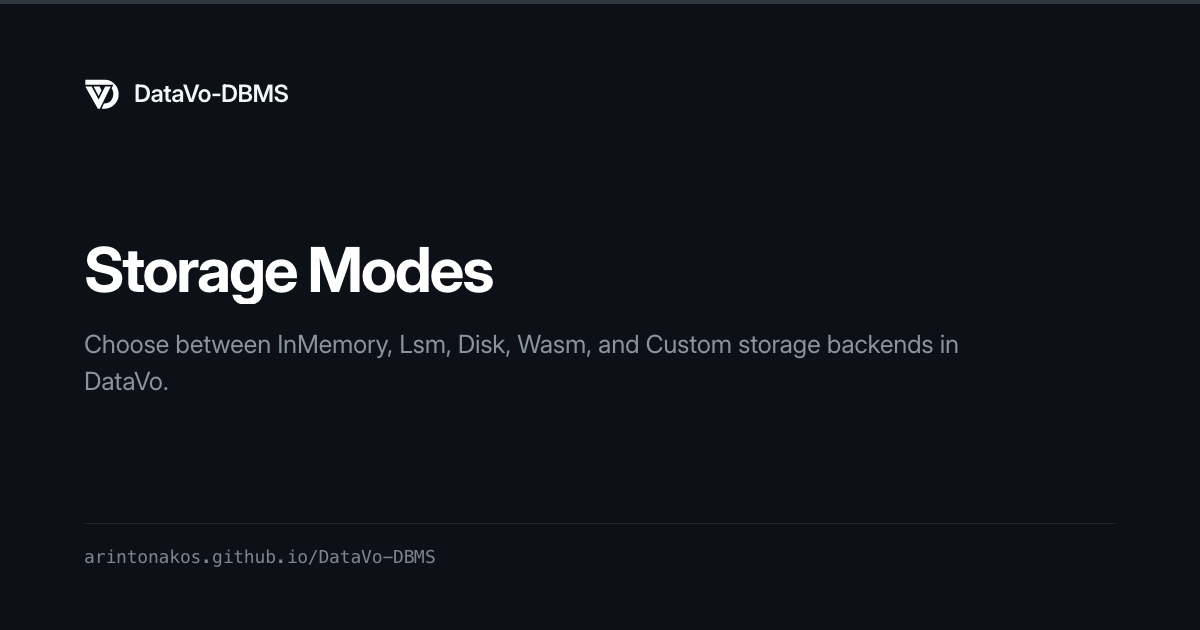
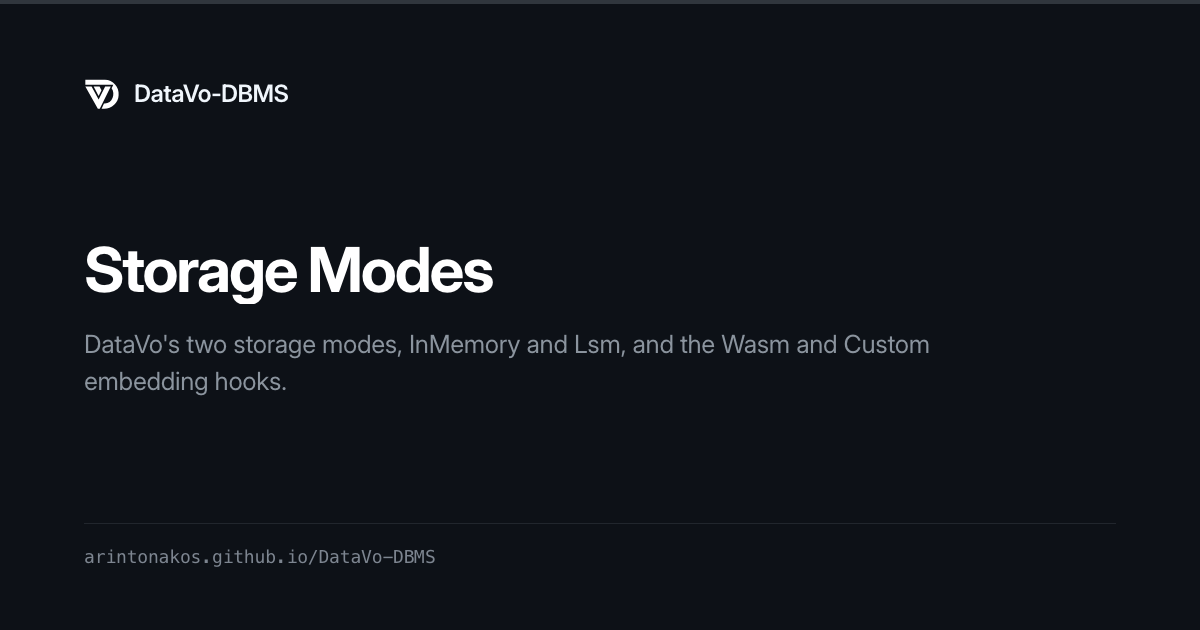
docs: describe 0.5.0 as the current release
Installs no longer need --prerelease, the requirements list the net8.0, net9.0,
net10.0 and netstandard2.1 assets, and the roadmap marks v0.5 as released.

Changed region(s): [[0.0617, 0.5127, 0.8017, 0.6333]]

diff --git a/docs/manual/getting-started/roadmap.md b/docs/manual/getting-started/roadmap.md
@@ -1,15 +1,15 @@
 ---
 title: Status & Roadmap
-description: Release candidate guarantees, subsystem stability, explicit boundaries, and the v0.2–v0.5 roadmap for DataVo 0.4.0-rc.1.
+description: Release guarantees, subsystem stability, explicit boundaries, and the v0.2–v0.5 milestone history for DataVo 0.5.0.
 ---
 
 # Status & Roadmap
 
-The current release on NuGet is **0.4.0-rc.1 (release candidate, 17 November 2026)**, shipping both the **v0.3** and **v0.4** milestones on `.NET 10`. This page defines the release-candidate contract, subsystem status, architectural boundaries, and what is planned for **v0.5**.
+The current release on NuGet is **0.5.0 (25 November 2026)**, targeting `.NET 8`, `.NET 9`, `.NET 10` and `netstandard2.1`. This page defines the release contract, subsystem status, architectural boundaries, and the milestone history.
 
-## Release Candidate Contract
+## Release Contract
 
-- **Supported shape:** One `.NET 10` process owns a database directory (enforced via `datavo.lock`) or an in-memory database, executing SQL or compiled LINQ through `DataVoContext`, ADO.NET, or the EF Core bridge.
+- **Supported shape:** One .NET process owns a database directory (enforced via `datavo.lock`) or an in-memory database, executing SQL or compiled LINQ through `DataVoContext`, ADO.NET, or the EF Core bridge.
 - **Durability:** Under `StorageMode.Lsm` with `LsmStrictFsync = true` (default), acknowledged commits are flushed to stable storage. With `LsmStrictFsync = false`, writes hand off to the OS page cache. See [LSM & Durability](/manual/fundamentals/lsm-and-durability).
 - **Isolation:** Explicit transactions provide MVCC snapshot isolation with read-your-own-writes and first-committer-wins conflict detection, but not serializable predicate locking (write skew is possible). See [Transactions & MVCC](/manual/fundamentals/transactions-and-mvcc).
 - **On-disk format:** v0.5 writes SSTable format version 8 (and reads the row-file versions 2, 4 and 6 it still writes for small integer keys). Pre-release formats are not upgraded: the v1 SSTable reader, the per-table WAL migration and the paged `Disk` engine were removed in v0.5. The format does not yet carry a long-term cross-version compatibility guarantee; keep an export or seed script for critical data.
@@ -19,14 +19,14 @@ The current release on NuGet is **0.4.0-rc.1 (release candidate, 17 November 202
 
 | Subsystem | Status | Notes |
 | --- | --- | --- |
-| `DataVoContext` & SQL dialect | Release candidate | DataVo's own dialect; see [SQL Compatibility](/manual/sql/compatibility) |
-| `InMemory` & `Lsm` storage | Release candidate | The two storage modes (the paged `Disk` engine was removed in v0.5) |
-| Transactions & MVCC | Release candidate | Snapshot isolation, savepoints, atomic `COMMIT` |
-| Vector search (`HNSW`, `FLAT`) | Release candidate | Cosine (`<=>`) and L2 (`<->`), cost-based exact fallback |
-| Columnar indexes & SSTable segments | Release candidate | In-memory buffers + persisted 4,096-row zone-mapped segments |
-| Live Reactive Views (Z-set IVM) | Release candidate | Pull-drain subscriptions via `Subscribe` / `SubscribeZeroAlloc` |
-| `DataVo.Generators` & Native AOT | Release candidate | Trim/AOT analyzers (`IL2026`, `IL3050`) enforced as errors |
-| `DataVo.Data` (ADO.NET & Dapper) | Release candidate | Standard `System.Data.Common` types; no `DbProviderFactory` |
+| `DataVoContext` & SQL dialect | Released (0.5.0) | DataVo's own dialect; see [SQL Compatibility](/manual/sql/compatibility) |
+| `InMemory` & `Lsm` storage | Released (0.5.0) | The two storage modes (the paged `Disk` engine was removed in v0.5) |
+| Transactions & MVCC | Released (0.5.0) | Snapshot isolation, savepoints, atomic `COMMIT` |
+| Vector search (`HNSW`, `FLAT`) | Released (0.5.0) | Cosine (`<=>`) and L2 (`<->`), cost-based exact fallback |
+| Columnar indexes & SSTable segments | Released (0.5.0) | In-memory buffers + persisted 4,096-row zone-mapped segments |
+| Live Reactive Views (Z-set IVM) | Released (0.5.0) | Pull-drain subscriptions via `Subscribe` / `SubscribeZeroAlloc` |
+| `DataVo.Generators` & Native AOT | Released (0.5.0) | Trim/AOT analyzers (`IL2026`, `IL3050`) enforced as errors |
+| `DataVo.Data` (ADO.NET & Dapper) | Released (0.5.0) | Standard `System.Data.Common` types; no `DbProviderFactory` |
 | `DataVo.EntityFrameworkCore` | Preview bridge | Query/DML bridge only; no migrations, excluded from AOT |
 | `DataVo.Browser` (WebAssembly) | Experimental | Powers the docs playground; not published on npm |
 | `DataVo-Sync` (PostgreSQL sync) | Commercial add-on | Separate proprietary product; see [DataVo-Sync](/manual/fundamentals/datavo-sync) |
@@ -57,7 +57,7 @@ The current release on NuGet is **0.4.0-rc.1 (release candidate, 17 November 202
 - **Typed execution:** `OR`/`LIKE` fast paths, integer-key hash joins, index-driven joins, dense bit-set anti-joins, unboxed `GROUP BY`, UTF-8 byte matching, and in-place top-k.
 - **Vector search:** HNSW diversity heuristic on by default (100% recall@10 on clustered data), cost-based exact scan fallback, SQL `WITH (...)` HNSW parameters, and pre-optimized SIMD kernels.
 
-### v0.5: AI Integration, Client Ergonomics & Native Interop *(release candidate `0.5.0-rc.1` in preparation)*
+### v0.5: AI Integration, Client Ergonomics & Native Interop *(released as `0.5.0`)*
 - **Track A (Native Interop):** Native AOT C ABI (`dv_open`, `dv_exec`, `dv_prepare`) for C/Python/Rust/Go, zero-copy Apache Arrow C Data Interface export from columnar buffers/SSTables, and a reference Python binding.
 - **Track B (Client Applications):**
   - *Done:* Build-time compiled `OrderBy`/`ThenBy`, `Skip`/`Take`, `Select` projections, and single-table `ExecuteUpdate`/`ExecuteDelete` in `DataVo.Generators`.

diff --git a/docs/public/ai/pages/manual/getting-started/roadmap.md b/docs/public/ai/pages/manual/getting-started/roadmap.md
@@ -3,11 +3,11 @@
 > Source route: /manual/getting-started/roadmap
 > Source file: manual/getting-started/roadmap.md
 
-The current release on NuGet is **0.4.0-rc.1 (release candidate, 17 November 2026)**, shipping both the **v0.3** and **v0.4** milestones on `.NET 10`. This page defines the release-candidate contract, subsystem status, architectural boundaries, and what is planned for **v0.5**.
+The current release on NuGet is **0.5.0 (25 November 2026)**, targeting `.NET 8`, `.NET 9`, `.NET 10` and `netstandard2.1`. This page defines the release contract, subsystem status, architectural boundaries, and the milestone history.
 
-## Release Candidate Contract
+## Release Contract
 
-- **Supported shape:** One `.NET 10` process owns a database directory (enforced via `datavo.lock`) or an in-memory database, executing SQL or compiled LINQ through `DataVoContext`, ADO.NET, or the EF Core bridge.
+- **Supported shape:** One .NET process owns a database directory (enforced via `datavo.lock`) or an in-memory database, executing SQL or compiled LINQ through `DataVoContext`, ADO.NET, or the EF Core bridge.
 - **Durability:** Under `StorageMode.Lsm` with `LsmStrictFsync = true` (default), acknowledged commits are flushed to stable storage. With `LsmStrictFsync = false`, writes hand off to the OS page cache. See [LSM & Durability](/manual/fundamentals/lsm-and-durability).
 - **Isolation:** Explicit transactions provide MVCC snapshot isolation with read-your-own-writes and first-committer-wins conflict detection, but not serializable predicate locking (write skew is possible). See [Transactions & MVCC](/manual/fundamentals/transactions-and-mvcc).
 - **On-disk format:** v0.5 writes SSTable format version 8 (and reads the row-file versions 2, 4 and 6 it still writes for small integer keys). Pre-release formats are not upgraded: the v1 SSTable reader, the per-table WAL migration and the paged `Disk` engine were removed in v0.5. The format does not yet carry a long-term cross-version compatibility guarantee; keep an export or seed script for critical data.
@@ -17,14 +17,14 @@ The current release on NuGet is **0.4.0-rc.1 (release candidate, 17 November 202
 
 | Subsystem | Status | Notes |
 | --- | --- | --- |
-| `DataVoContext` & SQL dialect | Release candidate | DataVo's own dialect; see [SQL Compatibility](/manual/sql/compatibility) |
-| `InMemory` & `Lsm` storage | Release candidate | The two storage modes (the paged `Disk` engine was removed in v0.5) |
-| Transactions & MVCC | Release candidate | Snapshot isolation, savepoints, atomic `COMMIT` |
-| Vector search (`HNSW`, `FLAT`) | Release candidate | Cosine (`<=>`) and L2 (`<->`), cost-based exact fallback |
-| Columnar indexes & SSTable segments | Release candidate | In-memory buffers + persisted 4,096-row zone-mapped segments |
-| Live Reactive Views (Z-set IVM) | Release candidate | Pull-drain subscriptions via `Subscribe` / `SubscribeZeroAlloc` |
-| `DataVo.Generators` & Native AOT | Release candidate | Trim/AOT analyzers (`IL2026`, `IL3050`) enforced as errors |
-| `DataVo.Data` (ADO.NET & Dapper) | Release candidate | Standard `System.Data.Common` types; no `DbProviderFactory` |
+| `DataVoContext` & SQL dialect | Released (0.5.0) | DataVo's own dialect; see [SQL Compatibility](/manual/sql/compatibility) |
+| `InMemory` & `Lsm` storage | Released (0.5.0) | The two storage modes (the paged `Disk` engine was removed in v0.5) |
+| Transactions & MVCC | Released (0.5.0) | Snapshot isolation, savepoints, atomic `COMMIT` |
+| Vector search (`HNSW`, `FLAT`) | Released (0.5.0) | Cosine (`<=>`) and L2 (`<->`), cost-based exact fallback |
+| Columnar indexes & SSTable segments | Released (0.5.0) | In-memory buffers + persisted 4,096-row zone-mapped segments |
+| Live Reactive Views (Z-set IVM) | Released (0.5.0) | Pull-drain subscriptions via `Subscribe` / `SubscribeZeroAlloc` |
+| `DataVo.Generators` & Native AOT | Released (0.5.0) | Trim/AOT analyzers (`IL2026`, `IL3050`) enforced as errors |
+| `DataVo.Data` (ADO.NET & Dapper) | Released (0.5.0) | Standard `System.Data.Common` types; no `DbProviderFactory` |
 | `DataVo.EntityFrameworkCore` | Preview bridge | Query/DML bridge only; no migrations, excluded from AOT |
 | `DataVo.Browser` (WebAssembly) | Experimental | Powers the docs playground; not published on npm |
 | `DataVo-Sync` (PostgreSQL sync) | Commercial add-on | Separate proprietary product; see [DataVo-Sync](/manual/fundamentals/datavo-sync) |
@@ -55,7 +55,7 @@ The current release on NuGet is **0.4.0-rc.1 (release candidate, 17 November 202
 - **Typed execution:** `OR`/`LIKE` fast paths, integer-key hash joins, index-driven joins, dense bit-set anti-joins, unboxed `GROUP BY`, UTF-8 byte matching, and in-place top-k.
 - **Vector search:** HNSW diversity heuristic on by default (100% recall@10 on clustered data), cost-based exact scan fallback, SQL `WITH (...)` HNSW parameters, and pre-optimized SIMD kernels.
 
-### v0.5: AI Integration, Client Ergonomics & Native Interop *(release candidate `0.5.0-rc.1` in preparation)*
+### v0.5: AI Integration, Client Ergonomics & Native Interop *(released as `0.5.0`)*
 - **Track A (Native Interop):** Native AOT C ABI (`dv_open`, `dv_exec`, `dv_prepare`) for C/Python/Rust/Go, zero-copy Apache Arrow C Data Interface export from columnar buffers/SSTables, and a reference Python binding.
 - **Track B (Client Applications):**
   - *Done:* Build-time compiled `OrderBy`/`ThenBy`, `Skip`/`Take`, `Select` projections, and single-table `ExecuteUpdate`/`ExecuteDelete` in `DataVo.Generators`.

diff --git a/README.md b/README.md
@@ -10,7 +10,7 @@
 ## Try it in 30 seconds
 
 ```bash
-dotnet add package DataVo.Core --prerelease
+dotnet add package DataVo.Core
 ```
 
 ```csharp
@@ -78,14 +78,14 @@ Full tables, methodology, cross-platform CI runs, and raw outputs:
 
 ## Install
 
-Latest prereleases on [nuget.org](https://www.nuget.org/packages/DataVo.Core/) (**0.4.0-rc.1**, 17 November 2026 — shipping both the **v0.3** and **v0.4** milestones; see the [roadmap](https://arintonakos.github.io/DataVo-DBMS/manual/getting-started/roadmap)):
+Current release on [nuget.org](https://www.nuget.org/packages/DataVo.Core/): **0.5.0** (25 November 2026; see the [roadmap](https://arintonakos.github.io/DataVo-DBMS/manual/getting-started/roadmap)):
 
 ```bash
-dotnet add package DataVo.Core --prerelease
-dotnet add package DataVo.Data --prerelease                  # ADO.NET provider, also used by Dapper
-dotnet add package DataVo.Generators --prerelease            # compiled LINQ, no EF Core dependency
-dotnet add package DataVo.EntityFrameworkCore --prerelease   # EF Core bridge (not a full provider)
-dotnet add package DataVo.VectorData --prerelease            # Microsoft.Extensions.VectorData vector store
+dotnet add package DataVo.Core
+dotnet add package DataVo.Data                  # ADO.NET provider, also used by Dapper
+dotnet add package DataVo.Generators            # compiled LINQ, no EF Core dependency
+dotnet add package DataVo.EntityFrameworkCore   # EF Core bridge (not a full provider)
+dotnet add package DataVo.VectorData            # Microsoft.Extensions.VectorData vector store
 ```
 
 To build packages locally from this repository:
@@ -199,7 +199,7 @@ The full manual is live at [arintonakos.github.io/DataVo-DBMS](https://arintonak
 
 ## Status
 
-DataVo is prerelease software (`0.4.0-rc.1`). The documented SQL dialect and C# APIs are the release-candidate surface being verified; the on-disk format does not yet carry a long-term cross-version compatibility guarantee, so keep an export or seed script for important data. Validate your own workload before relying on it in production.
+DataVo `0.5.0` is a pre-1.0 release. The documented SQL dialect and C# APIs may still change between minor versions, and the on-disk format does not yet carry a long-term cross-version compatibility guarantee, so keep an export or seed script for important data. Validate your own workload before relying on it in production.
 
 ## License
 

diff --git a/docs/manual/getting-started/installation.md b/docs/manual/getting-started/installation.md
@@ -1,17 +1,18 @@
 ---
 title: Installation & Packages
-description: Install DataVo v0.4 (0.4.0-rc.1) NuGet packages for .NET 10, including Core, Generators, ADO.NET, and EF Core.
+description: Install DataVo v0.5 (0.5.0) NuGet packages for .NET 8, 9 and 10, including Core, Generators, ADO.NET, and EF Core.
 ---
 
 # Installation & Packages
 
-DataVo ships as four NuGet packages on `nuget.org`, with `DataVo.Core` as the foundation. The current release is **0.4.0-rc.1 (release candidate)**, so pass `--prerelease` when installing.
+DataVo ships as five NuGet packages on `nuget.org`, with `DataVo.Core` as the foundation. The current release is **0.5.0**.
 
 ```bash
-dotnet add package DataVo.Core --prerelease
-dotnet add package DataVo.Generators --prerelease
-dotnet add package DataVo.Data --prerelease
-dotnet add package DataVo.EntityFrameworkCore --prerelease
+dotnet add package DataVo.Core
+dotnet add package DataVo.Generators
+dotnet add package DataVo.Data
+dotnet add package DataVo.EntityFrameworkCore
+dotnet add package DataVo.VectorData
 ```
 
 ## Package Reference
@@ -35,7 +36,7 @@ dotnet add package DataVo.EntityFrameworkCore --prerelease
 
 ## Requirements
 
-- **`.NET 10` (`net10.0`):** Published packages target `net10.0`. Multi-target packages (`net8.0`, `net9.0`, `net10.0`, `netstandard2.1`) are planned for v0.5; see [Status & Roadmap](/manual/getting-started/roadmap#unity-evaluation-status) for Unity evaluation details.
+- **Target frameworks:** Packages ship `net8.0`, `net9.0`, `net10.0` and `netstandard2.1` assets; see [Status & Roadmap](/manual/getting-started/roadmap#unity-evaluation-status) for Unity evaluation details.
 - **Native AOT:** `DataVo.Core`, `DataVo.Data`, and `DataVo.Generators` build with trim and AOT analyzers (`IL2026`, `IL3050`) as errors. `DataVo.EntityFrameworkCore` is excluded from Native AOT.
 - **C# Interceptors:** `DataVo.Generators` ships MSBuild `.props` that automatically register `DataVo.Generated` in `InterceptorsNamespaces`.
 - **Building from source:** Run `dotnet pack DataVo.sln -c Release` to produce local `.nupkg` files in `artifacts/packages`.

diff --git a/docs/public/ai/pages/manual/getting-started/installation.md b/docs/public/ai/pages/manual/getting-started/installation.md
@@ -3,13 +3,14 @@
 > Source route: /manual/getting-started/installation
 > Source file: manual/getting-started/installation.md
 
-DataVo ships as four NuGet packages on `nuget.org`, with `DataVo.Core` as the foundation. The current release is **0.4.0-rc.1 (release candidate)**, so pass `--prerelease` when installing.
+DataVo ships as five NuGet packages on `nuget.org`, with `DataVo.Core` as the foundation. The current release is **0.5.0**.
 
 ```bash
-dotnet add package DataVo.Core --prerelease
-dotnet add package DataVo.Generators --prerelease
-dotnet add package DataVo.Data --prerelease
-dotnet add package DataVo.EntityFrameworkCore --prerelease
+dotnet add package DataVo.Core
+dotnet add package DataVo.Generators
+dotnet add package DataVo.Data
+dotnet add package DataVo.EntityFrameworkCore
+dotnet add package DataVo.VectorData
 ```
 
 ## Package Reference
@@ -33,7 +34,7 @@ dotnet add package DataVo.EntityFrameworkCore --prerelease
 
 ## Requirements
 
-- **`.NET 10` (`net10.0`):** Published packages target `net10.0`. Multi-target packages (`net8.0`, `net9.0`, `net10.0`, `netstandard2.1`) are planned for v0.5; see [Status & Roadmap](/manual/getting-started/roadmap#unity-evaluation-status) for Unity evaluation details.
+- **Target frameworks:** Packages ship `net8.0`, `net9.0`, `net10.0` and `netstandard2.1` assets; see [Status & Roadmap](/manual/getting-started/roadmap#unity-evaluation-status) for Unity evaluation details.
 - **Native AOT:** `DataVo.Core`, `DataVo.Data`, and `DataVo.Generators` build with trim and AOT analyzers (`IL2026`, `IL3050`) as errors. `DataVo.EntityFrameworkCore` is excluded from Native AOT.
 - **C# Interceptors:** `DataVo.Generators` ships MSBuild `.props` that automatically register `DataVo.Generated` in `InterceptorsNamespaces`.
 - **Building from source:** Run `dotnet pack DataVo.sln -c Release` to produce local `.nupkg` files in `artifacts/packages`.

diff --git a/docs/index.md b/docs/index.md
@@ -4,7 +4,7 @@ layout: home
 hero:
   name: "DataVo"
   text: "C#-native embedded database"
-  tagline: "In-process SQL, LSM storage, vector search, and live Z-set reactive views for .NET 10. Documentation for v0.4 (0.4.0-rc.1)."
+  tagline: "In-process SQL, LSM storage, vector search, and live Z-set reactive views for .NET 8, 9 and 10. Documentation for v0.5 (0.5.0)."
   actions:
     - theme: brand
       text: Quickstart
@@ -39,7 +39,7 @@ DataVo is a managed C# embedded database engine that runs directly inside your `
 - [Quickstart](/manual/getting-started/quickstart): Create a database, insert rows, and query in 60 seconds.
 - [Choosing an Interface](/manual/getting-started/choosing-an-interface): Compare `DataVoContext`, Compiled LINQ, ADO.NET, Dapper, and EF Core.
 - [DataVo vs SQLite](/manual/performance/datavo-vs-sqlite): Oracle-verified benchmarks across 28 SQL shapes and filtered vector search.
-- [Status & Roadmap](/manual/getting-started/roadmap): Release candidate scope, durability guarantees, and the v0.5 plan.
+- [Status & Roadmap](/manual/getting-started/roadmap): Release scope, durability guarantees, and the milestone history.
 
 ## DataVo-Sync (Commercial Add-On)
 

diff --git a/docs/manual/getting-started/introduction.md b/docs/manual/getting-started/introduction.md
@@ -81,7 +81,7 @@ Queries are first offered to **typed execution paths** (single-table scans, inte
 
 ## See Also
 
-- [Installation & Packages](/manual/getting-started/installation): NuGet packages (`0.4.0-rc.1`) and `.NET 10` requirements.
+- [Installation & Packages](/manual/getting-started/installation): NuGet packages (`0.5.0`) and `.NET 8`/`9`/`10` requirements.
 - [Quickstart](/manual/getting-started/quickstart): End-to-end C# walkthrough with `InMemory` and `Lsm`.
 - [DataVo vs SQLite](/manual/performance/datavo-vs-sqlite): Oracle-verified benchmarks across 28 SQL shapes and vector queries.
-- [Status & Roadmap](/manual/getting-started/roadmap): Release candidate guarantees, boundaries, and the v0.5 plan.
+- [Status & Roadmap](/manual/getting-started/roadmap): Release guarantees, boundaries, and the milestone history.

diff --git a/docs/public/ai/pages/manual/getting-started/introduction.md b/docs/public/ai/pages/manual/getting-started/introduction.md
@@ -79,7 +79,7 @@ Queries are first offered to **typed execution paths** (single-table scans, inte
 
 ## See Also
 
-- [Installation & Packages](/manual/getting-started/installation): NuGet packages (`0.4.0-rc.1`) and `.NET 10` requirements.
+- [Installation & Packages](/manual/getting-started/installation): NuGet packages (`0.5.0`) and `.NET 8`/`9`/`10` requirements.
 - [Quickstart](/manual/getting-started/quickstart): End-to-end C# walkthrough with `InMemory` and `Lsm`.
 - [DataVo vs SQLite](/manual/performance/datavo-vs-sqlite): Oracle-verified benchmarks across 28 SQL shapes and vector queries.
-- [Status & Roadmap](/manual/getting-started/roadmap): Release candidate guarantees, boundaries, and the v0.5 plan.
+- [Status & Roadmap](/manual/getting-started/roadmap): Release guarantees, boundaries, and the milestone history.
